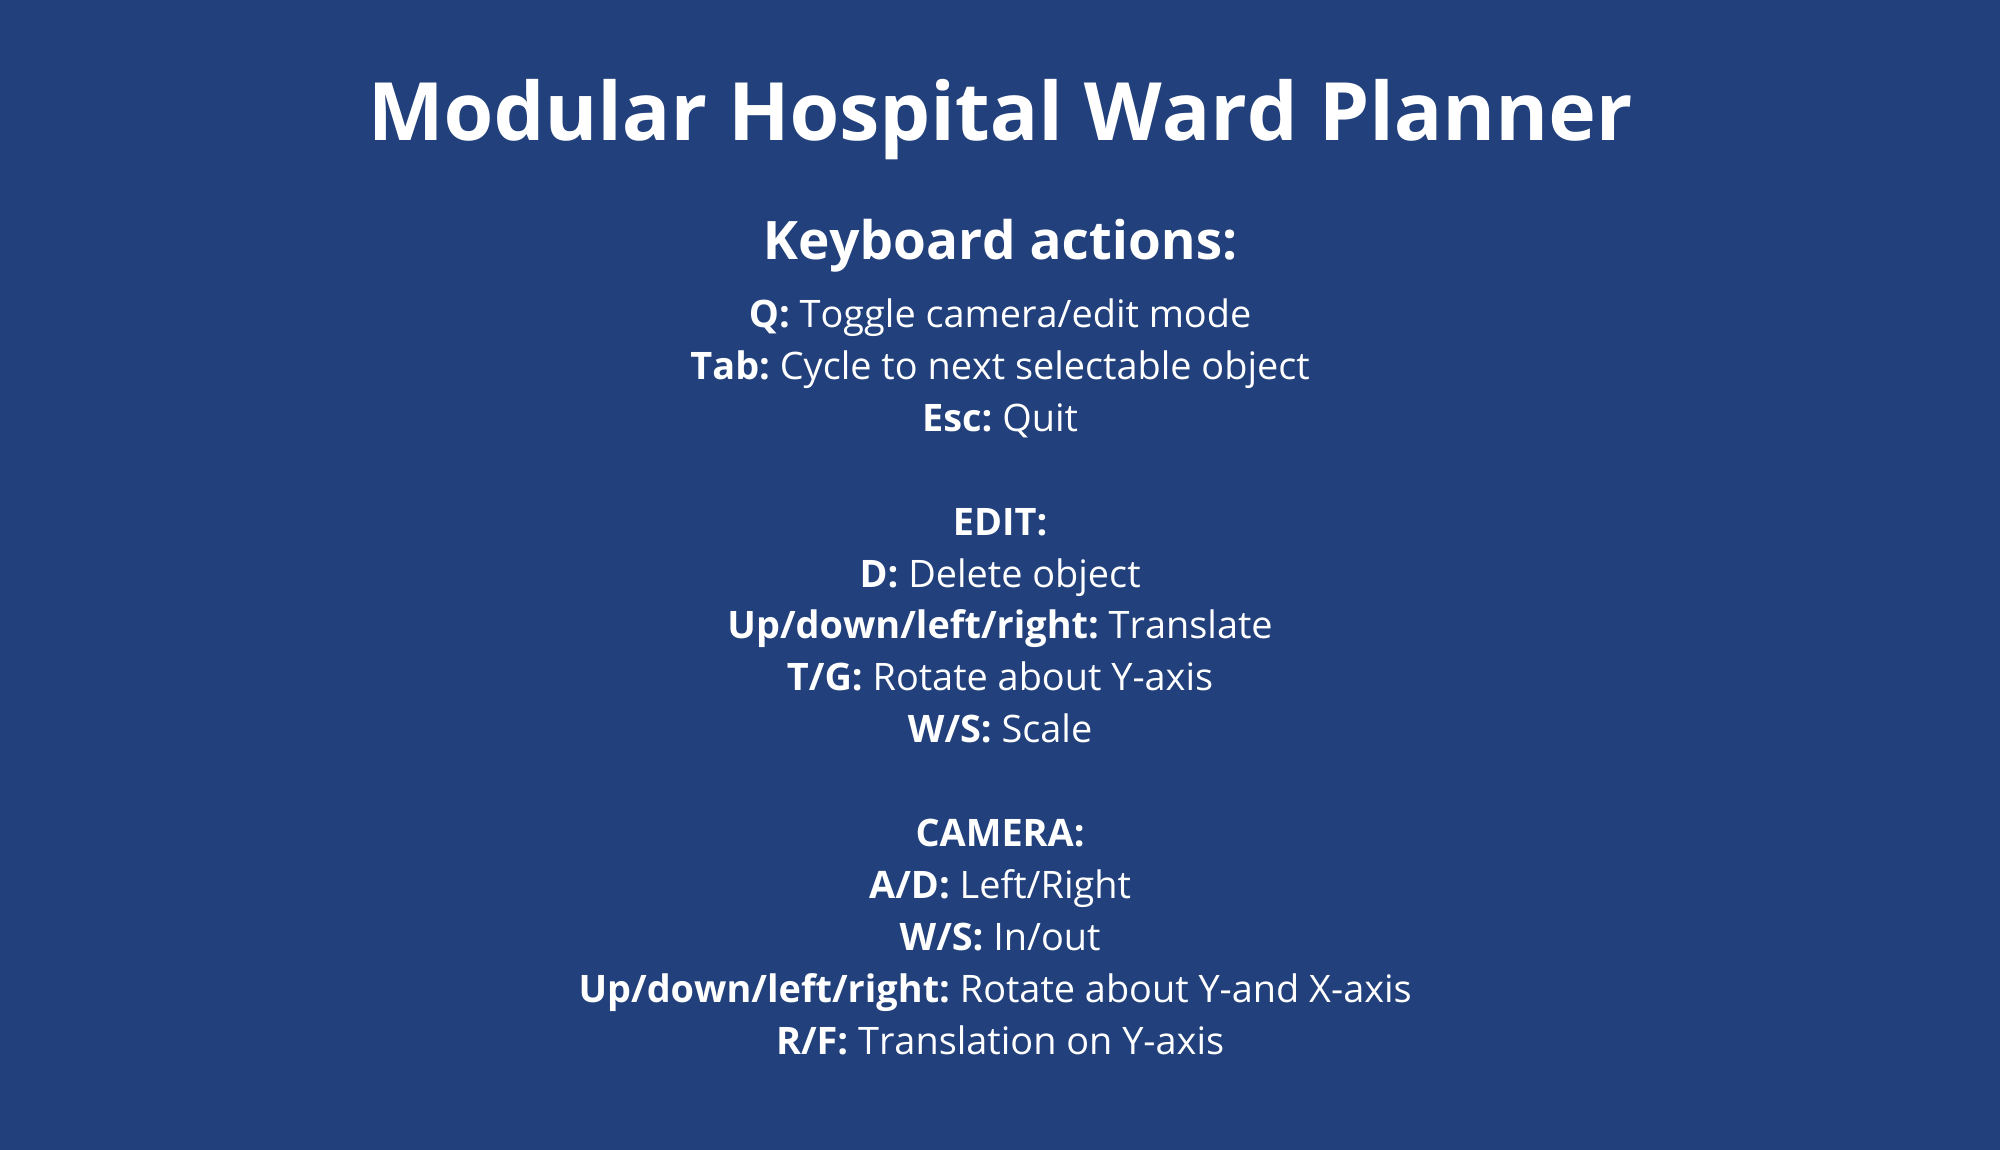
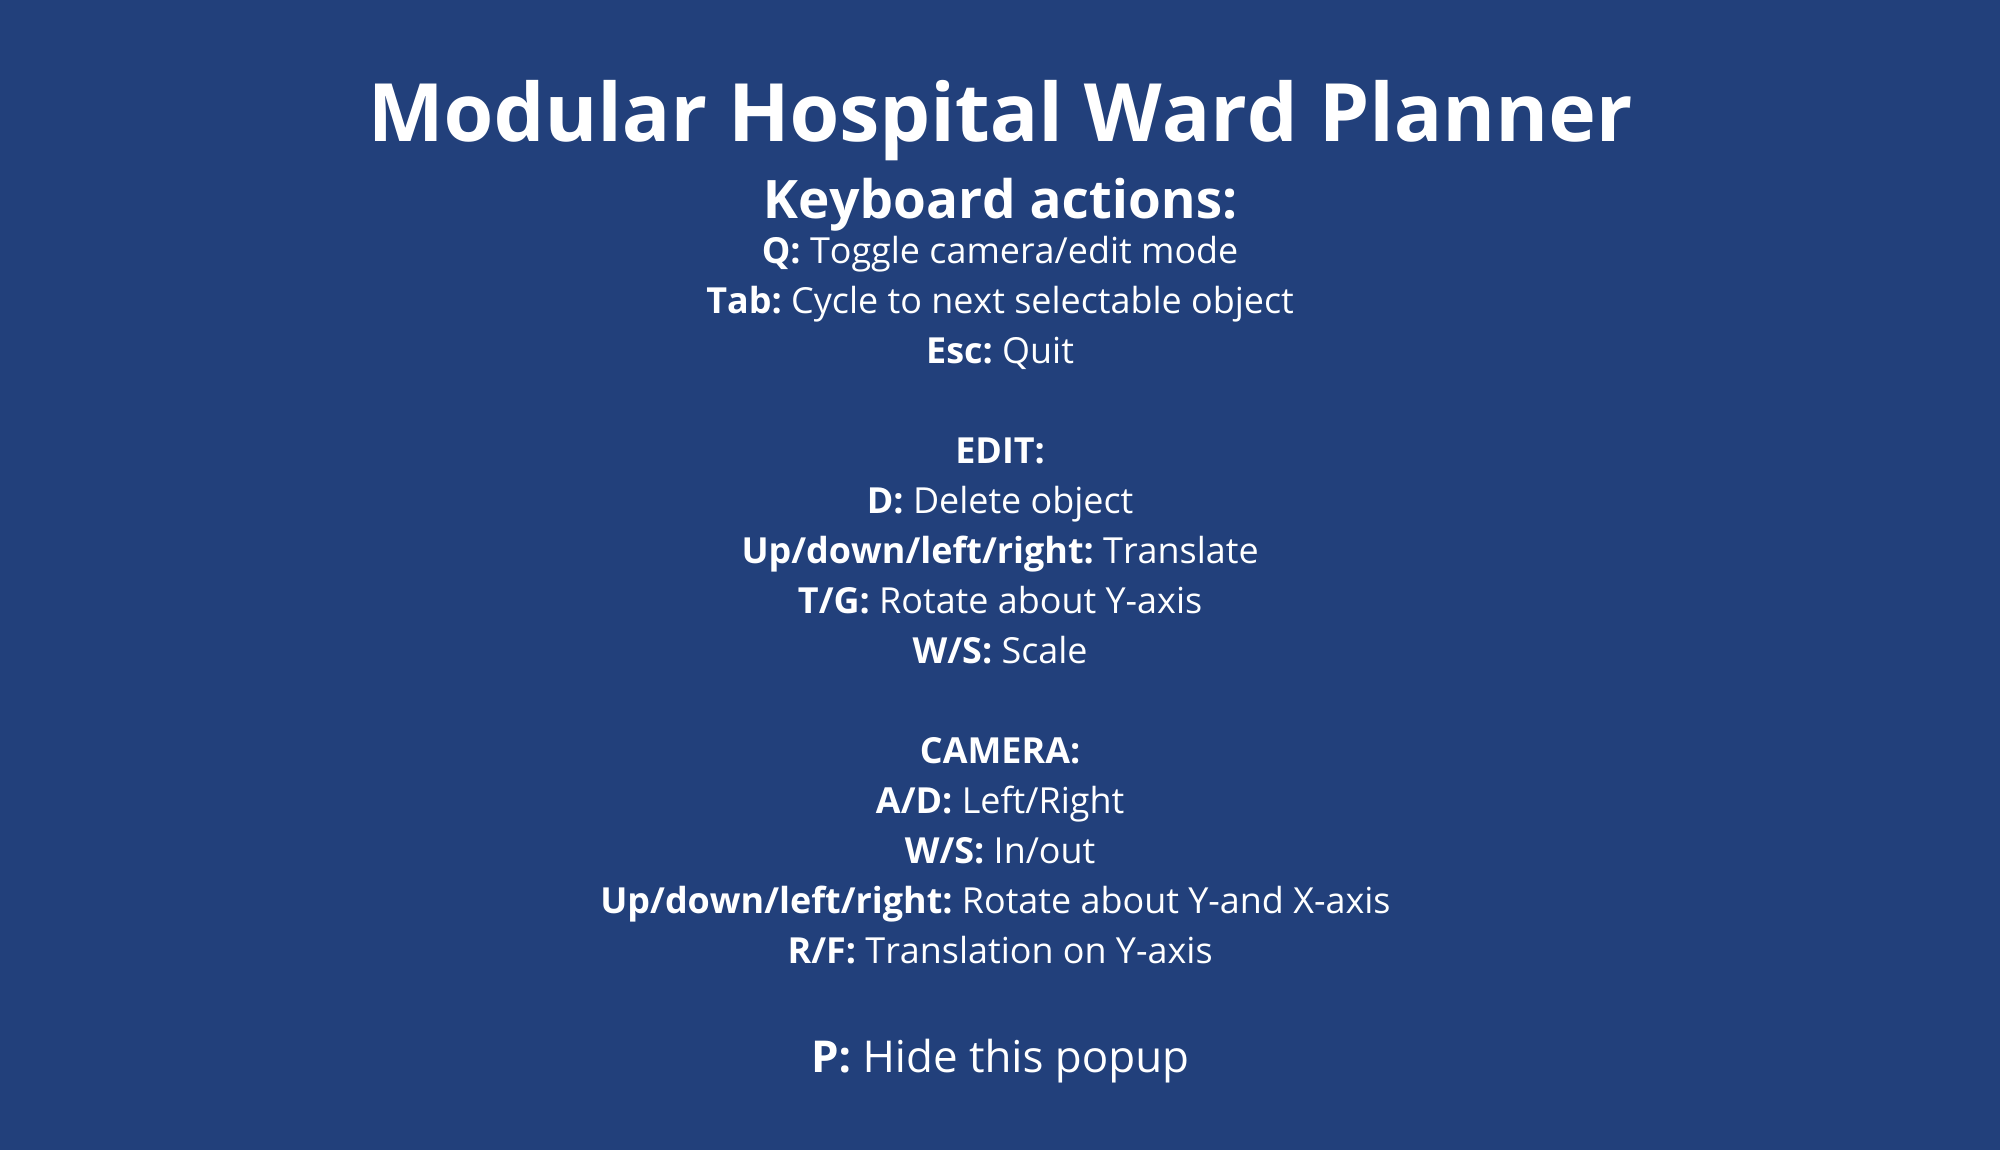
Fix text resizing

Changed region(s): [[0.279, 0.4261, 0.713, 0.9435], [0.341, 0.1522, 0.651, 0.3957], [0.403, 0.0913, 0.434, 0.1217]]

diff --git a/src/main.cpp b/src/main.cpp
@@ -109,6 +109,7 @@ protected:
     float MOVE_SPEED = 20.0f;
     float ROT_SPEED  = glm::radians(90.0f);
 
+
     void setWindowParameters() {
         windowWidth = 1280;
         windowHeight = 720;
@@ -123,7 +124,7 @@ protected:
         RP.width  = w;
         RP.height = h;
 
-        txt.resizeScreen(w, h);
+        //txt.resizeScreen(w, h);
     }
 
     void localInit() {
@@ -137,13 +138,12 @@ protected:
 
         // set = 1 (local)
         DSLmesh.init(this, {
-          { 0, VK_DESCRIPTOR_TYPE_UNIFORM_BUFFER,         VK_SHADER_STAGE_VERTEX_BIT,
-            sizeof(LocalUBO), 1 },
-          { 1, VK_DESCRIPTOR_TYPE_COMBINED_IMAGE_SAMPLER, VK_SHADER_STAGE_FRAGMENT_BIT,
-            0, 1 },
-          { 2, VK_DESCRIPTOR_TYPE_COMBINED_IMAGE_SAMPLER, VK_SHADER_STAGE_FRAGMENT_BIT,
-            1, 1 }
-        });
+      { 0, VK_DESCRIPTOR_TYPE_UNIFORM_BUFFER,
+        VK_SHADER_STAGE_VERTEX_BIT | VK_SHADER_STAGE_FRAGMENT_BIT, sizeof(LocalUBO), 1 },
+      { 1, VK_DESCRIPTOR_TYPE_COMBINED_IMAGE_SAMPLER, VK_SHADER_STAGE_FRAGMENT_BIT, 0, 1 },
+      { 2, VK_DESCRIPTOR_TYPE_COMBINED_IMAGE_SAMPLER, VK_SHADER_STAGE_FRAGMENT_BIT, 1, 1 }
+    });
+
 
         DSLoverlay.init(this, {
                  {0, VK_DESCRIPTOR_TYPE_UNIFORM_BUFFER, VK_SHADER_STAGE_ALL_GRAPHICS, sizeof(OverlayUniformBuffer), 1},
@@ -205,7 +205,7 @@ protected:
         DPSZs.texturesInPool      = 29;
         DPSZs.setsInPool          = 3;
 
-        MCorner.vertices = std::vector<unsigned char>(4 * sizeof(VertexOverlay));
+        /*MCorner.vertices = std::vector<unsigned char>(4 * sizeof(VertexOverlay));
         VertexOverlay *V1 = (VertexOverlay *)(&(MCorner.vertices[0]));
 
         V1[0] = { {-1.0f,  -0.7}, {0.0f, 0.0f} }; // bottom-left
@@ -216,7 +216,7 @@ protected:
         MCorner.indices = {0, 1, 2,    1, 2, 3};
         MCorner.initMesh(this, &VDoverlay);
 
-        TCorner.init(this, "assets/models/Untitled.png");
+        TCorner.init(this, "assets/models/Untitled.png");*/
 
         MKey.vertices = std::vector<unsigned char>(4 * sizeof(VertexOverlay));
         VertexOverlay *V2 = (VertexOverlay *)(&(MKey.vertices[0]));
@@ -240,7 +240,7 @@ protected:
               "SS",
               false, true, true,
               TAL_LEFT, TRH_LEFT, TRV_TOP);
-        txt.print(-0.98f, -0.37f, ("Press P to hide keyboard actions" ), 1, "SS", false, true, true, TAL_LEFT, TRH_LEFT, TRV_TOP);
+        txt.print(-0.98f, -0.37, ("" ), 1, "SS", false, true, true, TAL_LEFT, TRH_LEFT, TRV_TOP);
         txt.updateCommandBuffer();
 
 
@@ -255,7 +255,7 @@ protected:
         POverlay.create(&RP);
 
         DSGubo.init(this, &DSLglobal, {});
-        DSCorner.init(this, &DSLoverlay, {TCorner.getViewAndSampler()});
+        //DSCorner.init(this, &DSLoverlay, {TCorner.getViewAndSampler()});
         DSKey.init(this, &DSLoverlay, {TKey.getViewAndSampler()});
 
         SC.pipelinesAndDescriptorSetsInit();
@@ -267,19 +267,19 @@ protected:
     void pipelinesAndDescriptorSetsCleanup() {
 
         PMesh.cleanup();
-        RP.cleanup();
         DSGubo.cleanup();
         POverlay.cleanup();
-        DSCorner.cleanup();
+        //DSCorner.cleanup();
         DSKey.cleanup();
+        RP.cleanup();
 
         SC.pipelinesAndDescriptorSetsCleanup();
         txt.pipelinesAndDescriptorSetsCleanup();
     }
 
     void localCleanup() {
-        TCorner.cleanup();
-        MCorner.cleanup();
+       // TCorner.cleanup();
+        //MCorner.cleanup();
         TKey.cleanup();
         MKey.cleanup();
         DSLoverlay.cleanup();
@@ -287,8 +287,8 @@ protected:
         DSLglobal.cleanup();
         DSLmesh.cleanup();
         PMesh.destroy();
-        RP.destroy();
         POverlay.destroy();
+        RP.destroy();
 
         txt.localCleanup();
         SC.localCleanup();
@@ -303,11 +303,11 @@ protected:
         SC.populateCommandBuffer(cmdBuffer, 0, currentImage);     // draws all mesh instances
 
         POverlay.bind(cmdBuffer);
-        DSCorner.bind(cmdBuffer, POverlay, 0, currentImage);
+        /*DSCorner.bind(cmdBuffer, POverlay, 0, currentImage);
         MCorner.bind(cmdBuffer);
         vkCmdDrawIndexed(cmdBuffer,
         static_cast<uint32_t>(MCorner.indices.size()), 1, 0, 0, 0);
-
+*/
         DSKey.bind(cmdBuffer, POverlay, 0, currentImage);
         MKey.bind(cmdBuffer);
         vkCmdDrawIndexed(cmdBuffer,static_cast<uint32_t>(MKey.indices.size()), 1, 0, 0, 0);
@@ -418,8 +418,8 @@ protected:
         }
 
         // 7) Overlay
-        CornerUBO.visible = 1.0f;
-        DSCorner.map(currentImage, &CornerUBO, 0);
+        //CornerUBO.visible = 1.0f;
+        //DSCorner.map(currentImage, &CornerUBO, 0);
 
         KeyUBO.visible = showKeyOverlay ? 1.0f : 0.0f;
         DSKey.map(currentImage, &KeyUBO, 0);
@@ -430,7 +430,7 @@ protected:
         int state = glfwGetKey(window, GLFW_KEY_P);
         if (state == GLFW_PRESS && prevPlusState == GLFW_RELEASE) {
             showKeyOverlay = !showKeyOverlay;
-            txt.print(-0.98f, -0.37f, (showKeyOverlay ? "Press P to hide keyboard actions" : "Press P to show keyboard actions"), 1, "SS", false, true, true, TAL_LEFT, TRH_LEFT, TRV_TOP);
+            txt.print(-0.98f, -0.37f, (showKeyOverlay ? "" : "Press P to show keyboard actions"), 1, "SS", false, true, true, TAL_LEFT, TRH_LEFT, TRV_TOP);
             txt.updateCommandBuffer();
         }
         prevPlusState = state;
